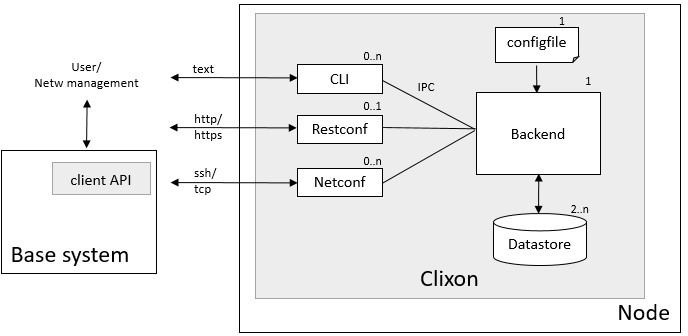
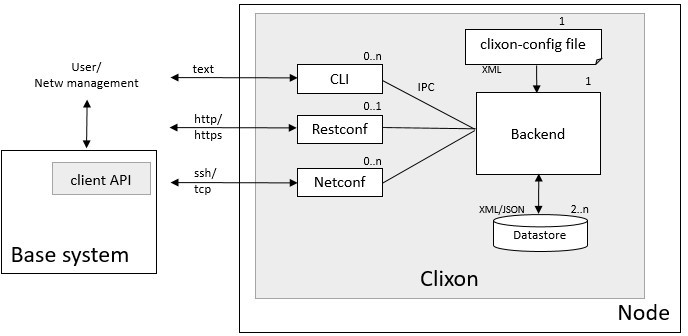
plugin rpc example, backend architecture jpg images

Changed region(s): [[0.702, 0.5952, 0.8547, 0.8036], [0.6715, 0.0595, 0.8852, 0.2381]]

diff --git a/backend.rst b/backend.rst
@@ -3,25 +3,9 @@
 Backend
 =======
 
-::
-
-                           +----------------+
-                           | clixon options |
-                           +----------------+
-                                   |- XML
-                                   v
-   Frontends:    IPC    +----------+--------+
-   CLI,           |     | backend  | plugin |   <-->  Underlying
-   netconf      <--->   | daemon   |--------+         System
-   restconf             |          | plugin |   <-->   
-                        +----------+--------+
-                                   ^
-                                   |- XML
-               Datastores:         v	                
-               +-----------+  +-----------+  +-----------+
-               | candidate |  |  running  |  |  startup  |
-               +-----------+  +-----------+  +-----------+
-
+ .. image:: backend1.jpg
+   :width: 100%
+	       
 The backend daemon is the central Clixon component. It consists of a main module and a number of dynamically loaded plugins. The backend has four APIs:
 
 *configuration*
@@ -159,8 +143,8 @@ CLICON_BACKEND_REGEXP
 CLICON_BACKEND_PIDFILE
   Process-id file of backend daemon
 
-Plugins
--------
+Backend plugins
+---------------
 
 Backend plugins are the "glue" that binds the Clixon system to the
 underlying system. The backend invokes *callbacks* in the plugins when
@@ -236,6 +220,62 @@ Which means if you register a copy-config callback in (1), it will be called *be
 Second, if there are more than one reply (eg ``<rpc-reply/><rpc-reply/>``) only the first reply will be parsed and used by the cli/netconf/restconf clients.
 
 If you want to take the original and modify it, you should therefore register the callback in plugin_start (3) so that your callback will be called after the system RPC. Then you should modify the original reply (not add a new reply).
+
+Example: RPC callback
+^^^^^^^^^^^^^^^^^^^^^
+
+This example shows how to define a new RPC in YANG, register a callback function in C, read and write a parameter.
+It is revised slightly from the main example.
+
+YANG::
+
+    module clixon-example {
+      namespace "urn:example:clixon";
+      ...
+      rpc example {
+          input {
+	      leaf x {
+		type string;
+		...
+ 	  output {
+	      leaf y {
+		type string;
+                ...
+		
+Register RPC in clixon_plugin_init()::		
+
+    clixon_plugin_api *clixon_plugin_init(clicon_handle h)
+    {
+       ...
+       rpc_callback_register(h, example_rpc, NULL, "urn:example:clixon", "example");
+
+Callback function reading value input x, modifying value and writing it as output value y::
+
+   static int 
+   example_rpc(clicon_handle h,            /* Clicon handle */
+               cxobj        *xe,           /* Request: <rpc><xn></rpc> */
+	       cbuf         *cbret,        /* Reply eg <rpc-reply>... */
+	       void         *arg,          /* client_entry */
+	       void         *regarg)       /* Argument given at register */
+   {
+       char *val;
+       val = xml_find_body(xe, "x");       /* Read x value of incoming rpc */
+       cprintf(cbret, "<rpc-reply xmlns=\"%s\">", NETCONF_BASE_NAMESPACE);
+       val[0]++;                           /* Increment first char */
+       /* Construct reply */
+       cprintf(cbret, "<y xmlns=\"urn:example:clixon\">%s</y>", val);
+       cprintf(cbret, "</rpc-reply>");
+
+Result netconf session::
+
+  <rpc xmlns="urn:ietf:params:xml:ns:netconf:base:1.0" message-id="42">
+     <example xmlns="urn:example:clixon">
+        <x>42</x>
+     </example>
+  </rpc>]]>]]>
+  <rpc-reply xmlns="urn:ietf:params:xml:ns:netconf:base:1.0" message-id="42">
+     <y xmlns="urn:example:clixon">52</y>
+  </rpc-reply>]]>]]>
 
 
 Transactions

diff --git a/restconf.rst b/restconf.rst
@@ -16,8 +16,8 @@ Architecture
 The restconf deamon provides a http/https RESTCONF interface to the
 Clixon backend.  It comes in two variants, as shown in the figure above:
 
-  1. Native http, which combines a web and restconf server.
-  2. A reverse proxy (such as NGINX) and fastCGI where web and restconf function is separated
+  1. Native http, which combines a HTTP and Restconf server.
+  2. A reverse proxy (such as NGINX) and FastCGI where web and restconf function is separated
 
 The restconf daemon communicates with the backend using
 internal netconf over the ``CLIXON_SOCK``. If FCGI is used, there is also a FCGI socket specified by ``CLICON_RESTCONF_PATH``.
@@ -34,6 +34,8 @@ The RESTCONF daemon can be configured for compile-time (by autotools) as follows
   --without-restconf      No RESTCONF
   --with-restconf=fcgi    RESTCONF using fcgi/ reverse proxy. This is default. Note fcgi feature must be set
   --with-restconf=native  RESTCONF using native http with libevhtp
+  --enable-nghttp2        Enable native http/2 using libnghttp2
+  --disable-evhtp         Disable native http/1.1 using libevhtp
 
 After that perform system-wide compilation::
 
@@ -57,7 +59,7 @@ The restconf daemon have the following command-line options:
   -R <xml>        Restconf configuration in-line overriding config file
   -o <option=value>  Give configuration option overriding config file (see clixon-config.yang)
 
-Note that the restconf daemon can be started as root, drops privileges to `wwwuser`, unless the ``-r`` command-line option is used, or ``CLICON_RESTCONF_PRIVILEGES`` is defined.
+Note that the restconf daemon started as root, drops privileges to `wwwuser`, unless the ``-r`` command-line option is used, or ``CLICON_RESTCONF_PRIVILEGES`` is defined.
 
 
 Configuration options

diff --git a/standards.rst b/standards.rst
@@ -139,6 +139,12 @@ RESTCONF event notification as described in RFC7950 section 6 is supported as fo
 
 `RFC 8072: YANG Patch Media Type <https://www.rfc-editor.org/rfc/rfc8072.txt>`_ is not implemented.
 
+In the native mode, clixon also supports:
+* HTTP/1 as a transport implemented by libevhtp
+* HTTP/2 (RFC7540) as a transport implemented by libnghttp2.
+* Transport Layer Security (TLS) implemented by libopenssl,
+* ALPN as defined in RFC 7301 for http/1, http/2 protocol selection
+
 XML and XPath
 -------------
 Clixon has its own implementation of XML and XPath. See more in the detailed API reference.
